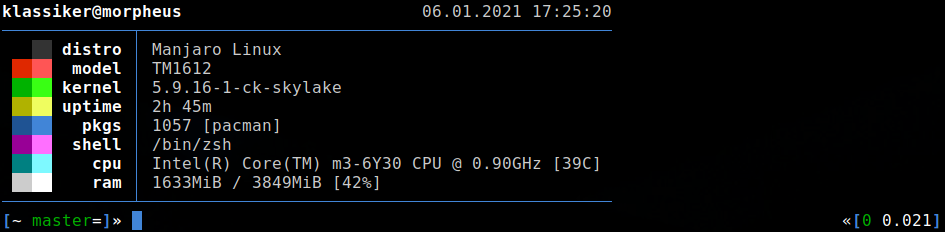
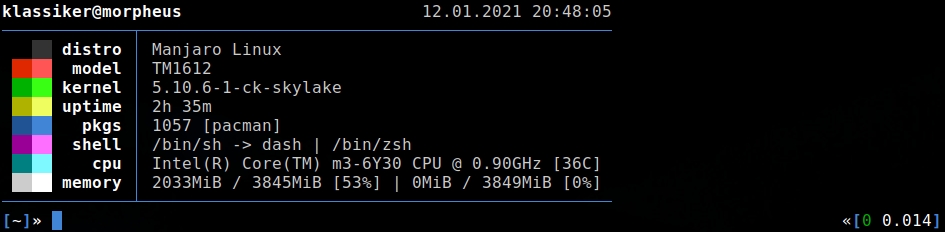
swap and non-interactive shell path added

diff --git a/cinfo.c b/cinfo.c
@@ -2,13 +2,14 @@
  * path:       /home/klassiker/.local/share/repos/cinfo/cinfo.c
  * author:     klassiker [mrdotx]
  * github:     https://github.com/mrdotx/cinfo
- * date:       2021-01-12T14:15:40+0100
+ * date:       2021-01-12T21:14:51+0100
  */
 
 #include <stdio.h>
 #include <stdlib.h>
 #include <string.h>
 #include <time.h>
+#include <unistd.h>
 #include <pthread.h>
 
 #include "config.h"
@@ -24,9 +25,9 @@ char g_user[50],
      g_kernel[50],
      g_uptime[13],
      g_pkgs[25],
-     g_shell[25],
+     g_shell[65],
      g_cpu[65],
-     g_ram[30];
+     g_mem[65];
 
 const char *remove_char(char *string, const char *remove){
     int i = 0, j;
@@ -69,9 +70,9 @@ void *get_host() {
     if ((file = fopen("/proc/sys/kernel/hostname", "r"))) {
         fscanf(file, "%s", g_host);
         fclose(file);
-    }
 
-    g_header_len += strlen(g_host);
+        g_header_len += strlen(g_host);
+    }
 
     return NULL;
 }
@@ -108,10 +109,10 @@ void *get_distro() {
             }
         }
         fclose(file);
-    }
 
-    if (g_line_len < strlen(g_distro)) {
-        g_line_len = strlen(g_distro);
+        if (g_line_len < strlen(g_distro)) {
+            g_line_len = strlen(g_distro);
+        }
     }
 
     return NULL;
@@ -150,10 +151,10 @@ void *get_kernel() {
     if ((file = fopen("/proc/sys/kernel/osrelease", "r"))) {
         fscanf(file, "%[^\n]s", g_kernel);
         fclose(file);
-    }
 
-    if (g_line_len < strlen(g_kernel)) {
-        g_line_len = strlen(g_kernel);
+        if (g_line_len < strlen(g_kernel)) {
+            g_line_len = strlen(g_kernel);
+        }
     }
 
     return NULL;
@@ -183,10 +184,10 @@ void *get_uptime() {
         } else {
             sprintf(g_uptime, "%dd %dh %dm", day, hour, min);
         }
-    }
 
-    if (g_line_len < strlen(g_uptime)) {
-        g_line_len = strlen(g_uptime);
+        if (g_line_len < strlen(g_uptime)) {
+            g_line_len = strlen(g_uptime);
+        }
     }
 
     return NULL;
@@ -209,7 +210,11 @@ void *get_pkgs() {
 }
 
 void *get_shell() {
-    sprintf(g_shell, "%s", getenv("SHELL"));
+    char shell[20];
+
+    readlink(SHELL_PATH, shell, sizeof(shell)-1);
+
+    sprintf(g_shell, "%s -> %s | %s", SHELL_PATH, shell, getenv("SHELL"));
 
     if (g_line_len < strlen(g_shell)) {
         g_line_len = strlen(g_shell);
@@ -252,36 +257,55 @@ void *get_cpu() {
     return NULL;
 }
 
-void *get_ram() {
+void *get_mem() {
     char name[20];
 
     int value,
-        total,
-        available;
+        mem_total,
+        mem_available,
+        swap_total,
+        swap_free,
+        swap_available;
 
-    float percent;
+    float mem_percent,
+          swap_percent;
 
     FILE *file;
     if ((file = fopen("/proc/meminfo", "r"))) {
         while (fscanf(file, "%19s %d %*s", name, &value) == 2) {
             if (0 == strcmp(name, "MemTotal:")) {
-                total = value;
+                mem_total = value;
             } else if (0 == strcmp(name, "MemAvailable:")) {
-                available = value;
+                mem_available = value;
+            } else if (0 == strcmp(name, "SwapTotal:")) {
+                swap_total = value;
+            } else if (0 == strcmp(name, "SwapFree:")) {
+                swap_free = value;
                 break;
             }
         }
         fclose(file);
 
-        available = (total - available) / 1024;
-        total /= 1024;
-        percent = (float) available / total * 100;
+        mem_available = (mem_total - mem_available) / 1024;
+        mem_total /= 1024;
+        mem_percent = (float) mem_available / mem_total * 100;
 
-        sprintf(g_ram, "%dMiB / %dMiB [%.0f%%]", available, total, percent);
-    }
+        if (swap_total == 0) {
+            sprintf(g_mem, "%dMiB / %dMiB [%.0f%%]", \
+                    mem_available, mem_total, mem_percent);
+        } else {
+            swap_available = (swap_total - swap_free) / 1024;
+            swap_total /= 1024;
+            swap_percent = (float) swap_available / swap_total * 100;
 
-    if (g_line_len < strlen(g_ram)) {
-        g_line_len = strlen(g_ram);
+            sprintf(g_mem, "%dMiB / %dMiB [%.0f%%] | %dMiB / %dMiB [%.0f%%]", \
+                    mem_available, mem_total, mem_percent, \
+                    swap_available, swap_total, swap_percent);
+        }
+
+        if (g_line_len < strlen(g_mem)) {
+            g_line_len = strlen(g_mem);
+        }
     }
 
     return NULL;
@@ -299,7 +323,7 @@ void get_infos(void *print()) {
         get_pkgs,
         get_shell,
         get_cpu,
-        get_ram
+        get_mem
     };
 
     const int THREADS_NUM = (int) sizeof(routines) / sizeof(routines[0]);
@@ -349,6 +373,8 @@ void print_info(const char *label,
         printf(" \033[0;%dm%s", color_code, COLOR_SYMBOL);
         printf("\033[1;%dm%s", color_code, COLOR_SYMBOL);
         color_code++;
+    } else {
+        printf("%s", set_spacer(" ", COLOR_LEFT_LEN - strlen(LABEL_DISTRO) - 1));
     }
 
     printf("%s%s%s", COLOR_PRIMARY, label, COLOR_TABLE);
@@ -368,7 +394,7 @@ void *print_ascii() {
     printf("%s%s%s\n", LABEL_PKGS, ASCII_DIVIDER, g_pkgs);
     printf("%s%s%s\n", LABEL_SHELL, ASCII_DIVIDER, g_shell);
     printf("%s%s%s\n", LABEL_CPU, ASCII_DIVIDER, g_cpu);
-    printf("%s%s%s\n", LABEL_RAM, ASCII_DIVIDER, g_ram);
+    printf("%s%s%s\n", LABEL_MEM, ASCII_DIVIDER, g_mem);
 
     print_line(ASCII_LEFT_LEN, ASCII_LINE, ASCII_DIVIDER_BOTTOM);
 
@@ -387,7 +413,7 @@ void *print_color() {
     print_info(LABEL_PKGS, g_pkgs);
     print_info(LABEL_SHELL, g_shell);
     print_info(LABEL_CPU, g_cpu);
-    print_info(LABEL_RAM, g_ram);
+    print_info(LABEL_MEM, g_mem);
 
     print_line(COLOR_LEFT_LEN, COLOR_LINE, COLOR_DIVIDER_BOTTOM);
 

diff --git a/config.def.h b/config.def.h
@@ -2,8 +2,11 @@
  * path:       /home/klassiker/.local/share/repos/cinfo/config.def.h
  * author:     klassiker [mrdotx]
  * github:     https://github.com/mrdotx/cinfo
- * date:       2021-01-08T20:48:57+0100
+ * date:       2021-01-12T20:31:38+0100
  */
+
+/* shell path */
+const char *SHELL_PATH = "/bin/sh";
 
 /* package manager */
 const char *PKGS_CMD = "pacman -Qq | wc -l",
@@ -37,4 +40,4 @@ const char *LABEL_DISTRO = " distro",
            *LABEL_PKGS   = "   pkgs",
            *LABEL_SHELL  = "  shell",
            *LABEL_CPU    = "    cpu",
-           *LABEL_RAM    = "    ram";
+           *LABEL_MEM    = " memory";
